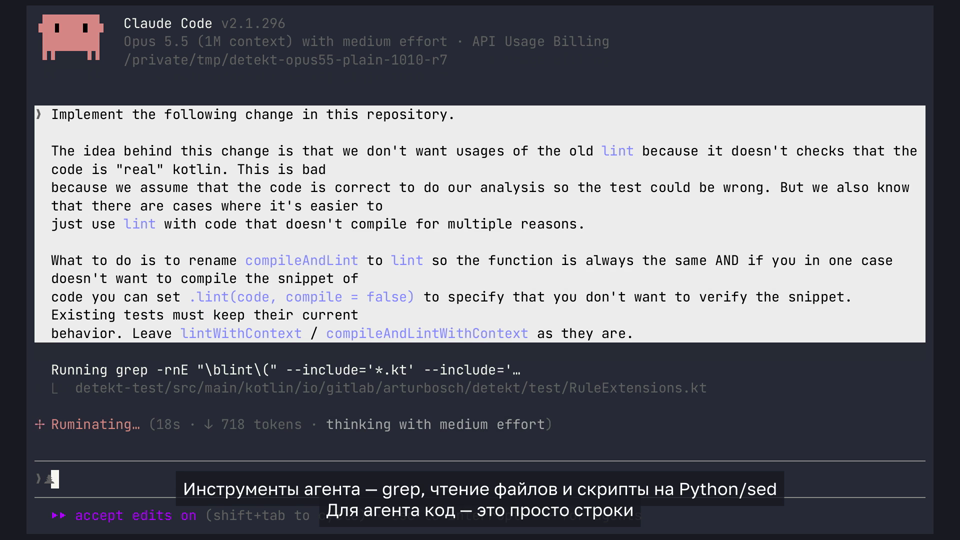
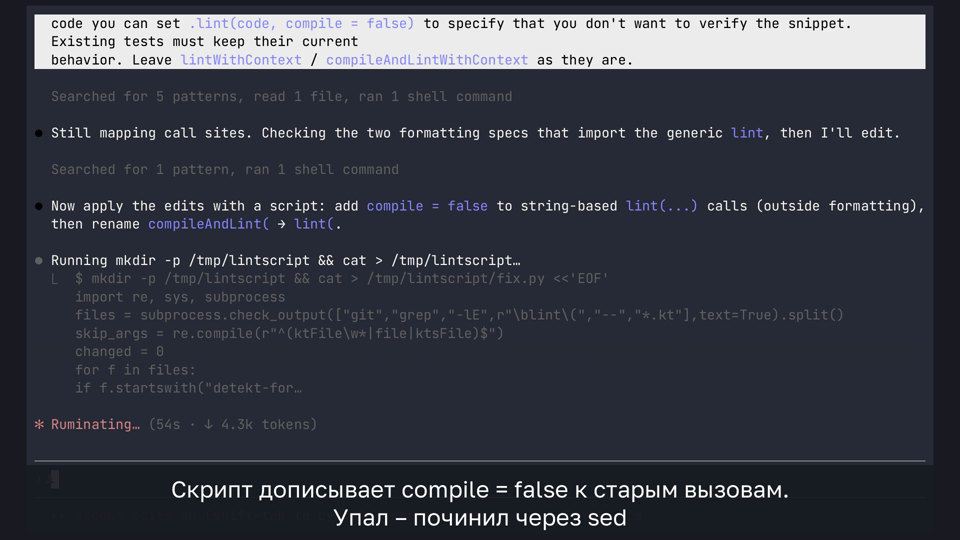
60-second demo cuts (cut60.py, PNG caption overlays); deck uses session-60s.mp4

diff --git a/demo-handoff/cut60.py b/demo-handoff/cut60.py
@@ -1,0 +1,158 @@
+#!/usr/bin/env python3
+"""Перемонтаж трёх демо в ролики по ≈ 60 с по плану CUT-PLAN-60s.md.
+
+    python3 cut60.py            # все три: runs/<run>/session-60s.mp4 + captions-60s.ass
+    python3 cut60.py 3          # только демо 3
+    python3 cut60.py --ass-only # только оверлеи подписей и таблица таймкодов
+
+Без титулов и финальных карточек: только экран агента и подписи на тёмной полосе внизу
+(полоса закрывает строку ввода, а не вывод агента). Исходники не меняются.
+Таймкоды сегментов – в секундах исходного session.mp4 (как в STORYLINES.md).
+"""
+import os, subprocess, sys
+
+HERE = os.path.dirname(os.path.abspath(__file__))
+FONTS = os.path.join(HERE, "fonts")
+BG = "0x191A23"
+BAND_H = 150
+
+# (начало, конец, скорость, подпись или None); ("hold", t, длительность, подпись) – стоп-кадр
+RUNS = {
+    "1": dict(
+        dir="runs/1-claude-code", crop=None,
+        segs=[
+            (11, 20, 3, r"Инструменты агента: grep, чтение файлов, скрипты"),
+            (59, 68, 1, r"Скрипт дописывает compile = false к старым вызовам.\NУпал – починил через sed"),
+            (76, 82, 2, r"Слияние функций – точечными правками"),
+            (83, 91, 1, r"Переименование по подстроке в 131 файле –\Nи в комментарии тоже: «not lint for performance reasons»"),
+            (110, 144, 5, r"Тесты запущены без флага -Pcompile-test-snippets=true"),
+            ("hold", 386, 6, r"Правка попала в соседний модуль detekt-sample-extensions:\Nон собирается против 1.23.7, где параметра compile нет"),
+        ]),
+    "2": dict(
+        dir="runs/2-claude-code-serena", crop=None,
+        segs=[
+            (10, 18, 3, r"Serena – инструменты LSP по MCP"),
+            (41, 47, 1, r"Агент сам объясняет, зачем LSP:\Ngrep не отличит lint(KtFile) от lint(String)"),
+            (47, 62, 4, r"rename_symbol: старый lint → временное имя, по ссылкам"),
+            (62, 68, 1, r"Сервер: «24 changes applied». Вызовы без точки найдены,\Nодноимённые функции не тронуты"),
+            (68, 77, 1, r"Сервер заодно удалил посторонний импорт и не сообщил.\NАгент заметил по диффу и откатил"),
+            (106, 113, 1, r"Добавить параметр – смена сигнатуры, в протоколе её нет → скрипт.\N18 файлов из 116, починил через sed"),
+            (122, 157, 7, r"Слияние функций и комментарии – текстовыми заменами"),
+            (179, 236, 15, r"Тесты с флагом -Pcompile-test-snippets=true"),
+            ("hold", 275, 4, None),
+        ]),
+    "3": dict(
+        dir="runs/3-veai", crop="crop=1360:1080:500:112,pad=1920:1080:280:0:color=" + BG,
+        segs=[
+            (20, 26, 1, r"find_usages: 99 мест – по ссылкам, а не по тексту"),
+            (40, 52, 1.5, r"Rename движком: пробный прогон – 23 файла, 0 конфликтов.\NИмя lint свободно"),
+            (52, 62, 1.5, r"Второй Rename: 130 файлов, 0 конфликтов"),
+            (62, 86, 8, r"Задвоенные импорты в 18 файлах движок схлопнул сам"),
+            (113, 125, 3, r"Модель решает «что», движок – «как»"),
+            (150, 158, 1, r"Рефакторинга «добавить аргумент во все вызовы» нет →\Nperl по временному имени: в нём только старые вызовы"),
+            (214, 247, 5, r"Сборка в терминале упала (JDK 25) – агент запускает через раннер IDE"),
+            (262, 268, 2, r"18 тестов прошли"),
+            (275, 296, 4, r"apiCheck упал на пустой строке – агент убрал её"),
+            ("hold", 300, 4, None),
+        ]),
+}
+
+from PIL import Image, ImageDraw, ImageFont
+FONT = os.path.join(FONTS, "GolosText.ttf")
+
+
+def caption_png(path, text, size=46):
+    """Прозрачный кадр 1920×1080 с подписью по центру нижней полосы (сама полоса рисуется ffmpeg)."""
+    im = Image.new("RGBA", (1920, 1080), (0, 0, 0, 0))
+    d = ImageDraw.Draw(im)
+    f = ImageFont.truetype(FONT, size)
+    lines = text.split("\\N")
+    lh = size + 10
+    y = 1080 - BAND_H + (BAND_H - lh * len(lines)) / 2
+    for ln in lines:
+        w = d.textlength(ln, font=f)
+        d.text(((1920 - w) / 2, y), ln, font=f, fill=(255, 255, 255, 255))
+        y += lh
+    im.save(path)
+
+
+def badge_png(path, text):
+    im = Image.new("RGBA", (1920, 1080), (0, 0, 0, 0))
+    d = ImageDraw.Draw(im)
+    f = ImageFont.truetype(FONT, 30)
+    w = d.textlength(text, font=f)
+    x1, y1 = 1920 - 40 - w - 24, 40
+    d.rounded_rectangle((x1, y1, 1920 - 40, y1 + 50), radius=8, fill=(0x6A, 0x5C, 0xFF, 200))
+    d.text((x1 + 12, y1 + 8), text, font=f, fill=(255, 255, 255, 255))
+    im.save(path)
+
+
+def ts(x):
+    cs = int(round(x * 100))
+    h, cs = divmod(cs, 360000); m, cs = divmod(cs, 6000); s, cs = divmod(cs, 100)
+    return f"{h}:{m:02d}:{s:02d}.{cs:02d}"
+
+
+def seg_len(s):
+    return s[2] if s[0] == "hold" else (s[1] - s[0]) / s[2]
+
+
+def build(key, ass_only):
+    r = RUNS[key]
+    d = os.path.join(HERE, r["dir"])
+    src, out = os.path.join(d, "session.mp4"), os.path.join(d, "session-60s.mp4")
+    ovdir = os.path.join(d, "overlays-60s"); os.makedirs(ovdir, exist_ok=True)
+    starts, t = [], 0.0
+    for s in r["segs"]:
+        starts.append(t); t += seg_len(s)
+    overlays = []   # (png, a, b)
+    badges = {}
+    for i, s in enumerate(r["segs"]):
+        a, b = starts[i], starts[i] + seg_len(s)
+        if s[3]:
+            png = os.path.join(ovdir, f"cap{i:02d}.png"); caption_png(png, s[3]); overlays.append((png, a, b - 0.1))
+        if s[0] != "hold" and s[2] != 1:
+            sp = f"{s[2]:g}"
+            if sp not in badges:
+                badges[sp] = os.path.join(ovdir, f"fast{sp}.png"); badge_png(badges[sp], f"ускорено ×{sp}")
+            overlays.append((badges[sp], a, b))
+    print(f"== демо {key}: {ts(t)}")
+    for i, s in enumerate(r["segs"]):
+        srcspan = f"кадр {s[1]}" if s[0] == "hold" else f"{s[0]}–{s[1]} ×{s[2]:g}"
+        print(f"  {ts(starts[i])}  {srcspan:18} {(s[3] or '').replace(chr(92) + 'N', ' / ')}")
+    if ass_only:
+        return
+    pre = (r["crop"] + ",") if r["crop"] else ""
+    args, chains, labels, n = ["ffmpeg", "-hide_banner", "-loglevel", "error", "-y"], [], [], 0
+    for i, s in enumerate(r["segs"]):
+        if s[0] == "hold":
+            args += ["-ss", str(s[1]), "-t", "0.2", "-i", src]
+            chains.append(f"[{n}:v]{pre}fps=30,setsar=1,tpad=stop_mode=clone:stop_duration={s[2]},trim=duration={s[2]},setpts=PTS-STARTPTS,"
+                          f"drawbox=x=0:y=ih-{BAND_H}:w=iw:h={BAND_H}:color={BG}@0.92:t=fill[s{i}]")
+        else:
+            a, b, sp = s[0], s[1], s[2]
+            args += ["-ss", str(a), "-t", str(b - a), "-i", src]
+            chains.append(f"[{n}:v]setpts=(PTS-STARTPTS)/{sp},fps=30,{pre}setsar=1,"
+                          f"drawbox=x=0:y=ih-{BAND_H}:w=iw:h={BAND_H}:color={BG}@0.92:t=fill,"
+                          f"trim=duration={(b - a) / sp:.3f},setpts=PTS-STARTPTS[s{i}]")
+        n += 1; labels.append(f"[s{i}]")
+    fc = ";".join(chains) + ";" + "".join(labels) + f"concat=n={len(labels)}:v=1:a=0[v0]"
+    cur = "v0"
+    for j, (png, a, b) in enumerate(overlays):
+        args += ["-i", png]
+        fc += f";[{cur}][{n}:v]overlay=0:0:enable='between(t,{a:.2f},{b:.2f})'[v{j + 1}]"
+        cur = f"v{j + 1}"; n += 1
+    fc += f";[{cur}]format=yuv420p[out]"
+    tmp = out + ".tmp.mp4"
+    args += ["-filter_complex", fc, "-map", "[out]", "-an", "-r", "30", "-c:v", "libx264", "-preset", "medium", "-crf", "18",
+             "-pix_fmt", "yuv420p", "-movflags", "+faststart", tmp]
+    subprocess.run(args, check=True, cwd=d)
+    subprocess.run(["ffmpeg", "-v", "error", "-i", tmp, "-f", "null", "-"], check=True)
+    os.replace(tmp, out)
+    print(f"  → {out}")
+
+
+if __name__ == "__main__":
+    keys = [a for a in sys.argv[1:] if a in RUNS] or list(RUNS)
+    for k in keys:
+        build(k, "--ass-only" in sys.argv)

diff --git a/build_deck.py b/build_deck.py
@@ -685,14 +685,14 @@ CH_INTRO = "Введение"
 CH_APPR = "Подходы к рефакторингу в агентах"
 MONO = "Menlo"
 DEMO = {   # финальные прогоны Максима (demo-handoff, 2026-10-15); «Попытки» – ошибок по ходу / исправил сам
-    "text":   dict(video="demo-handoff/runs/1-claude-code/session-edited.mp4", poster="img/demo-poster-1.png",
-                   agent="Claude Code", model="Opus 5.5", meta="Прогон 6:20, ролик 2:38",
+    "text":   dict(video="demo-handoff/runs/1-claude-code/session-60s.mp4", poster="img/demo-poster-1.png",
+                   agent="Claude Code", model="Opus 5.5", meta="Прогон 6:20, ролик 0:36",
                    metrics=[("Время", "6:20"), ("Ошибок / Исправлено", "6 / 3"), ("Токены", "1,8M"), ("Стартовый контекст", "49k")]),
-    "lsp":    dict(video="demo-handoff/runs/2-claude-code-serena/session-edited.mp4", poster="img/demo-poster-2.png",
-                   agent="Claude Code + Serena (LSP)", model="Opus 5.5", meta="Прогон 4:38, ролик 2:42",
+    "lsp":    dict(video="demo-handoff/runs/2-claude-code-serena/session-60s.mp4", poster="img/demo-poster-2.png",
+                   agent="Claude Code + Serena (LSP)", model="Opus 5.5", meta="Прогон 4:38, ролик 0:47",
                    metrics=[("Время", "4:38"), ("Ошибок / Исправлено", "3 / 3"), ("Токены", "2,4M"), ("Стартовый контекст", "59k")]),
-    "engine": dict(video="demo-handoff/runs/3-veai/session-edited.mp4", poster="img/demo-poster-3.png",
-                   agent="Veai", model="Opus 5.5", meta="Прогон 4:54, ролик 2:20",
+    "engine": dict(video="demo-handoff/runs/3-veai/session-60s.mp4", poster="img/demo-poster-3.png",
+                   agent="Veai", model="Opus 5.5", meta="Прогон 4:54, ролик 0:55",
                    metrics=[("Время", "4:54"), ("Ошибок / Исправлено", "2 / 2"), ("Токены", "3,3M"), ("Стартовый контекст", "≈ 20k")]),
 }
 

diff --git a/demo-handoff/CUT-PLAN-60s.md b/demo-handoff/CUT-PLAN-60s.md
@@ -8,7 +8,7 @@
 - «Нормальная скорость» = ×1, подпись 1–2 строки, держится всё время сегмента.
 - «Пробежка» = ×3…×8 с пометкой «ускорено ×N», подпись одна на сегмент или без подписи.
 - Не упоминаем: двойника `FormattingRule.lint`, разницу промптов (тесты), сравнение времени между подходами.
-- Один и тот же эпизод во всех трёх демо (detekt нашёл длинную строку → правка) показываем только в демо 1, в остальных вырезаем.
+- Эпизод «detekt нашёл длинную строку → правка» вырезаем во всех трёх демо.
 
 ## Демо 1. Claude Code, текстовые правки (исходник 6:32 → ≈ 55 с)
 
@@ -20,11 +20,10 @@
 | 4 | 1:23–1:31 | ×1 | 7 с | rename.py: compileAndLint → lint по подстроке, 131 файл | Переименование по подстроке в 131 файле — и в комментарии тоже: «not lint for performance reasons» |
 | 5 | 1:50–2:24 | ×5 | 6 с | apiDump, compileTestKotlin, запуск тестов | Тесты запущены без флага -Pcompile-test-snippets=true |
 | — | 2:24–5:10 | вырезать | 0 | ожидание фоновых тестов | (монтажный переход: «2 мин 40 с спустя») |
-| 6 | 5:15–5:25 | ×1 | 6 с | detekt: длинная строка; откат changelog.md | detekt нашёл длинную строку. Changelog задело переименование — агент откатывает |
 | 7 | 6:25–6:32 | стоп-кадр | 6 с | итоговый отчёт: «…plus sample-extensions» | Правка попала в соседний модуль detekt-sample-extensions: он собирается против 1.23.7, где параметра compile нет |
 
 Вырезаем целиком: поиск двойника (0:36–0:45), сортировку импортов (1:34), правку документации (1:47), ожидание тестов.
-Итого ≈ 45–48 с.
+Итого ≈ 36 с.
 
 ## Демо 2. Claude Code + Serena, LSP (исходник 4:43 → ≈ 58 с)
 
@@ -41,7 +40,7 @@
 | 10 | 4:10–4:43 | стоп-кадр | 4 с | итоговый отчёт | |
 
 Вырезаем: длинную строку и повторный прогон (3:56–4:10), автоподтверждение записи migrate.py (1:23–1:24), старт TUI, выход.
-Итого ≈ 47 с. Если нужно короче — сегмент 1 убрать, сегмент 8 до 3 с.
+Итого ≈ 47 с (рендер: 0:47). Если нужно короче — сегмент 1 убрать, сегмент 8 до 3 с.
 
 ## Демо 3. Veai, движок IDE (исходник 5:06 → ≈ 58 с)
 
@@ -59,7 +58,7 @@
 | 10 | 296–306 | стоп-кадр | 4 с | итоговый отчёт | |
 
 Вырезаем: проверку bin/ (186–196), комментарии и сообщения (205–214), «5 секунд — подозрительно» (247–262), чтение файлов и размышления (86–113, 125–150, 162–214).
-Итого ≈ 53 с. Если нужно короче — сегмент 8 убрать, сегмент 5 до 2 с.
+Итого ≈ 55 с (рендер: 0:55). Если нужно короче — сегмент 8 убрать, сегмент 5 до 2 с.
 
 ## Что обязательно остаётся в каждом ролике
 
@@ -68,3 +67,11 @@
 - Движок: find_usages по ссылкам; два Rename с пробным прогоном и «0 конфликтов»; perl по временному имени.
 
 Карта в `edit.py`: демо 1 — `SEGMENTS` по сырому времени cast (другая шкала, пересчитать через `rawR`), демо 2 — `SEGMENTS`/`CAPTIONS` во времени agg, демо 3 — `SEGMENTS`/`CAPS` в секундах исходника. Таймкоды выше — в шкале исходного `session.mp4`, как в `STORYLINES.md`.
+
+## Как собрать
+
+```bash
+python3 demo-handoff/cut60.py
+```
+
+Результат: `runs/<run>/session-60s.mp4` (без титулов, подписи на тёмной полосе внизу поверх строки ввода). В этом ffmpeg нет libass, поэтому подписи рисуются PIL-оверлеями из `runs/<run>/overlays-60s/`.
